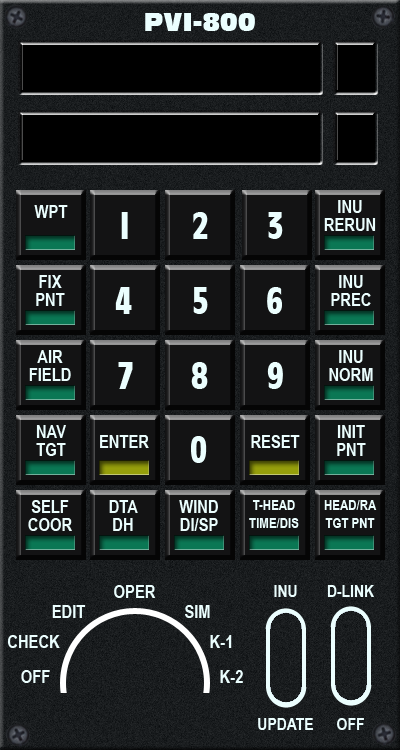
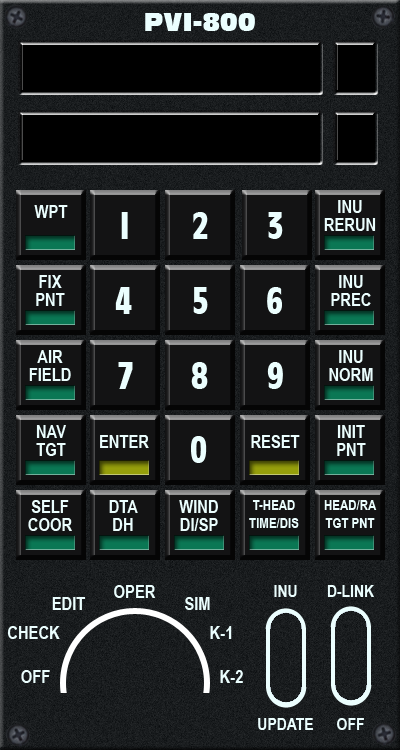
PVT selector

Changed region(s): [[0.0, 0.7973, 0.21, 0.8893], [0.45, 0.7973, 0.6, 0.8587]]

diff --git a/Ka50-Pit.html b/Ka50-Pit.html
@@ -396,8 +396,35 @@
 
 <!-- xxxxxxxxxxxxxxxxxxxxxxxxxxxxxxxxxxxxxxxxxxxxxxxxxxxxxxxxxxxxxxxxxxxxxxxxxxxxxxxxxxxxxxxxxxxxxxxxxxxxx -->
 
-
-
+<div id="Panel_DLINK_Select">
+	<img src="images/panel/Datalink-Select.png" width="400" height="200" usemap="#PVT800_P"> 
+	
+	<map name="PVT800_P">
+			<!-- Selecteur d'ID-->
+			<area shape="circle" coords="60,30,20" href="javascript:CmdDCSRaw('42501400')">
+			<area shape="circle" coords="100,40,20" href="javascript:CmdDCSRaw('42501401')">
+			<area shape="circle" coords="135,70,20" href="javascript:CmdDCSRaw('42501402')">
+			<area shape="circle" coords="145,120,20" href="javascript:CmdDCSRaw('42501403')">
+			
+			<!-- Selecteur DATA-->
+			<area shape="circle" coords="210,50,20" href="javascript:CmdDCSRaw('42501500')">
+			<area shape="circle" coords="280,30,20" href="javascript:CmdDCSRaw('42501501')">
+			<area shape="circle" coords="360,60,20" href="javascript:CmdDCSRaw('42501502')">
+			<area shape="circle" coords="370,120,20" href="javascript:CmdDCSRaw('42501503')">
+	</map> 
+	
+	
+	<!-- Molette du Selecteur du PVI -->
+	<SPAN style="position: absolute; left: 30px; top: 45px; width: 60px; height: 150px">
+	<img src="images/navigation/Selecteur_demi.gif" width="60" height="150" id="Selec_dlink_1">
+	</SPAN>
+	
+	<!-- Molette du Selecteur du PVI -->
+	<SPAN style="position: absolute; left: 250px; top: 45px; width: 60px; height: 150px">
+	<img src="images/navigation/Selecteur_demi.gif" width="60" height="150" id="Selec_dlink_2">
+	</SPAN>
+	
+	</div>		
 
 <!-- xxxxxxxxxxxxxxxxxxxxxxxxxxxxxxxxxxxxxxxxxxxxxxxxxxxxxxxxxxxxxxxxxxxxxxxxxxxxxxxxxxxxxxxxxxxxxxxxxxxxx -->
 
@@ -1207,16 +1234,11 @@
 
 <div id="Panel_Light">
 
-	<img src="images/light/Light_Panel.png" width="500" height="200" usemap="#Light_P">
+	<img src="images/light/Light_Panel.png" width="500" height="200">
 
-	<map name="Light_P">
-		<!-- Bouton Light off 
-		<area shape="rect" coords="0,110,45,150" href="javascript:CmdDCSRaw('14800200')">-->
-	</map> 
-	
-	<!-- Selecteur Eclairage Intérieur Dome -->
+		<!-- Selecteur Eclairage Intérieur Dome -->
 	<SPAN style="position: absolute; left: 27px; top: 70px; width: 40px; height: 100px">
-	<img src="images/switch/Switch-Metal-D4.png" width="40" height="100" id="E_Dome_L" usemap="#Dome_L"> </SPAN>
+	<img src="images/switch/Switch-Metal-D4.png" width="40" height="100" id="E_Dome_L" usemap="#Dome_L"> 
 	<map name="Dome_L">	
 	<area shape="rect" coords="0,0,40,49"  href="javascript:CmdDCSRaw('15100901')"> 
 	<area shape="rect" coords="0,50,40,100"  href="javascript:CmdDCSRaw('15100900')"> 
@@ -1225,7 +1247,7 @@
 	
 	<!-- Selecteur Eclairage Intérieur Panel -->
 	<SPAN style="position: absolute; left: 78px; top: 70px; width: 40px; height: 100px">
-	<img src="images/switch/Switch-Metal-D4.png" width="40" height="100" id="E_Panel_L" usemap="#Panel_L"> </SPAN>
+	<img src="images/switch/Switch-Metal-D4.png" width="40" height="100" id="E_Panel_L" usemap="#Panel_L"> 
 	<map name="Panel_L">	
 	<area shape="rect" coords="0,0,40,49"  href="javascript:CmdSiocDCS4('15100101','15100301','15100701','15100501')"> 
 	<area shape="rect" coords="0,50,40,100"  href="javascript:CmdSiocDCS4('15100100','15100300','15100700','15100500')"> 
@@ -1234,7 +1256,7 @@
 	
 	<!-- Selecteur Nav Light -->
 	<SPAN style="position: absolute; left: 160px; top: 70px; width: 40px; height: 100px">
-	<img src="images/switch/Switch-Metal-C4V.png" width="40" height="100" id="E_Nav_L" usemap="#Nav_L"> </SPAN>
+	<img src="images/switch/Switch-Metal-C4V.png" width="40" height="100" id="E_Nav_L" usemap="#Nav_L"> 
 	<map name="Nav_L">	
 	<area shape="rect" coords="0,0,40,32"  href="javascript:CmdDCSRaw('44500403')"> 
 	<area shape="rect" coords="0,33,40,66"  href="javascript:CmdDCSRaw('44500400')"> 
@@ -1244,7 +1266,7 @@
 	
 	<!-- Selecteur Formation Light -->
 	<SPAN style="position: absolute; left: 215px; top: 70px; width: 40px; height: 100px">
-	<img src="images/switch/Switch-Metal-C4V.png" width="40" height="100" id="E_Form_L" usemap="#Form_L"> </SPAN>
+	<img src="images/switch/Switch-Metal-C4V.png" width="40" height="100" id="E_Form_L" usemap="#Form_L"> 
 	<map name="Form_L">	
 	<area shape="rect" coords="0,0,40,32"  href="javascript:CmdDCSRaw('44500203')"> 
 	<area shape="rect" coords="0,33,40,66"  href="javascript:CmdDCSRaw('44500200')"> 
@@ -1254,7 +1276,7 @@
 	
 	<!-- Selecteur Blade Tip -->
 	<SPAN style="position: absolute; left: 290px; top: 70px; width: 40px; height: 100px">
-	<img src="images/switch/Switch-Metal-D4.png" width="40" height="100" id="E_Blade_L" usemap="#Blade_L"> </SPAN>
+	<img src="images/switch/Switch-Metal-D4.png" width="40" height="100" id="E_Blade_L" usemap="#Blade_L">
 	<map name="Blade_L">	
 	<area shape="rect" coords="0,0,40,49"  href="javascript:CmdDCSRaw('14500101')"> 
 	<area shape="rect" coords="0,50,40,100"  href="javascript:CmdDCSRaw('14500100')"> 
@@ -1263,7 +1285,7 @@
 	
 	<!-- Selecteur Beacon Light -->
 	<SPAN style="position: absolute; left: 340px; top: 70px; width: 40px; height: 100px">
-	<img src="images/switch/Switch-Metal-D4.png" width="40" height="100" id="E_Beacon_L" usemap="#Beacon_L"> </SPAN>
+	<img src="images/switch/Switch-Metal-D4.png" width="40" height="100" id="E_Beacon_L" usemap="#Beacon_L">
 	<map name="Beacon_L">	
 	<area shape="rect" coords="0,0,40,49"  href="javascript:CmdDCSRaw('14500301')"> 
 	<area shape="rect" coords="0,50,40,100"  href="javascript:CmdDCSRaw('14500300')"> 
@@ -1272,7 +1294,7 @@
 
 	<!-- Selecteur Landing Lights -->
 	<SPAN style="position: absolute; left: 420px; top: 70px; width: 40px; height: 100px">
-	<img src="images/switch/Switch-Metal-C4V.png" width="40" height="100" id="E_Landing_L" usemap="#Landing_L"> </SPAN>
+	<img src="images/switch/Switch-Metal-C4V.png" width="40" height="100" id="E_Landing_L" usemap="#Landing_L"> 
 	<map name="Landing_L">	
 	<area shape="rect" coords="0,0,40,32"  href="javascript:CmdSiocDCS3('14400101','14400200','0')"> 
 	<area shape="rect" coords="0,33,40,66"  href="javascript:CmdDCSRaw('14400100')"> 
@@ -1382,7 +1404,7 @@
 	
 	<!-- Selecteur Inu/Update -->
 	<SPAN style="position: absolute; left: 266px; top: 610px; width: 40px; height: 100px">
-	<img src="images/switch/Switch-Metal-D4.png" width="40" height="100" id="SW_pvi_inu" usemap="#pvi_inu"> </SPAN>
+	<img src="images/switch/Switch-Metal-D4.png" width="40" height="100" id="SW_pvi_inu" usemap="#pvi_inu"> 
 	<map name="pvi_inu">	
 	<area shape="rect" coords="0,0,40,49"  href="javascript:CmdDCSRaw('12002801')"> 
 	<area shape="rect" coords="0,50,40,100"  href="javascript:CmdDCSRaw('12002800')"> 
@@ -1391,7 +1413,7 @@
 	
 	<!-- Selecteur D-Link On/Off Update -->
 	<SPAN style="position: absolute; left: 332px; top: 610px; width: 40px; height: 100px">
-	<img src="images/switch/Switch-Metal-D4.png" width="40" height="100" id="SW_pvi_dlink" usemap="#pvi_dlink"> </SPAN>
+	<img src="images/switch/Switch-Metal-D4.png" width="40" height="100" id="SW_pvi_dlink" usemap="#pvi_dlink"> 
 	<map name="pvi_dlink">	
 	<area shape="rect" coords="0,0,40,49"  href="javascript:CmdDCSRaw('12501601')"> 
 	<area shape="rect" coords="0,50,40,100"  href="javascript:CmdDCSRaw('12501600')"> 
@@ -1456,14 +1478,13 @@
 	<SPAN style="position: absolute; left: 337px; top: 36px; width: 40px; height: 50px ; color:red;  text-align:center; font-size:340%" id="PVI_T3"> </SPAN>
 	<SPAN style="position: absolute; left: 337px; top: 106px; width: 40px; height: 50px ; color:red;  text-align:center; font-size:340%" id="PVI_T4"> </SPAN>
 	
+	</div>		
 	
-	
-	
-	
-	
-	
-</div>		
+	<!-- xxxxxxxxxxxxxxxxxxxxxxxxxxxxxxxxxxxxxxxxxxxxxxxxxxxxxxxxxxxxxxxxxxxxxxxxxxxxxxxxxxxxxxxxxxxxxxxxxxxxx -->
 
+	
+	
+	
 
 
 </body>

diff --git a/js/pit_init.js b/js/pit_init.js
@@ -9,7 +9,7 @@ function panel_On_init(){
 
 var Panel_On = { Init:0, Breakers:0, Light:1, Electric_DC:1, Electric_AC:0, APU:0, Oil:1, Start:1, Rotor:1, Analog_1:0, Analog_2:0, 
 	ARK_9:0, ARK_UD:0, Doppler:0, Radio_360:1, Fuel:0, Vierge:0, Navigation:0, Target:0, Weapon:1, UV26:1,
-	Pilototo:1,Datalink:1, Abris:1, PVI800:1, Doc:0}
+	Pilototo:1, Datalink:1, Abris:1, PVI800:1, PVT800:1, Doc:0}
 
 return (Panel_On);
 
@@ -36,7 +36,7 @@ function paneldata_init(){
 		ARKUD:55500555,	ARK9_SW:55555, ARK9_F: 51506290, ARK9_Data:50005000, ARK9_T_Main:150, ARK9_T_Stby:150,
 		Doppler_d1:50005000, Doppler_d2:50005000, Doppler_f:555,
 		D15_drift:50005000, D15_drift_V:55, Sling_2D:50005000, Sling_3D:50005000, 
-		DLinkL1:0, DLinkL2:0, DLinkL3:0, Tgt_Btn:5555, Wpn_Ka:55555555, Wpn_Lamp:55, Wpn_Flag:55555,Wpn_Ammo:50005000,Wpn_SW_1:555555,
+		DLinkL1:5555, DLinkL2:55555, DLinkL3:555555, Tgt_Btn:5555, Wpn_Ka:55555555, Wpn_Lamp:55, Wpn_Flag:55555,Wpn_Ammo:50005000,Wpn_SW_1:555555,
 		UV26_Data:50005000, UV26_Flag:5555, Abris1:50005000, Abris2:50005000, Abris3:50005000, 
 		Pvi800_1:0 , Pvi800_2:0, Pvi800_3:50005000, Pvi800_4:55555555 , Pvi800_5:5555555 , Pvi800_6:550,
 		Collectif:0,

diff --git a/js/panel_datalink.js b/js/panel_datalink.js
@@ -88,4 +88,28 @@ function panel_datalink_update(KaTZPit_data){
 		
 }
 
+function panel_datalink_pvt800(KaTZPit_data){
+	console.log(KaTZPit_data["DLinkL3"])
+	console.log(dataread_posit(KaTZPit_data["DLinkL3"],5))
+	// Selecteurs Rotatif Datalink (ID et Data)
+	switch_PVT(dataread_posit(KaTZPit_data["DLinkL3"],6),dataread_posit(KaTZPit_data["DLinkL3"],5))
+}
+
+function switch_PVT(id,data){
+	var i_origine = 0
+	var i_gain = 30
 	
+	var d_origine = -45
+	var d_gain = 45
+	
+	$("#Selec_dlink_1").css({
+		'-moz-transform':'rotate('+(i_origine+i_gain*id)+'deg)',
+		'-webkit-transform':'rotate('+(i_origine+i_gain*id)+'deg)',
+		'-ms-transform':'rotate('+(i_origine+i_gain*id)+'deg)',
+	})
+	$("#Selec_dlink_2").css({
+		'-moz-transform':'rotate('+(d_origine+d_gain*data)+'deg)',
+		'-webkit-transform':'rotate('+(d_origine+d_gain*data)+'deg)',
+		'-ms-transform':'rotate('+(d_origine+d_gain*data)+'deg)',
+	})
+}

diff --git a/js/pit.js b/js/pit.js
@@ -69,8 +69,6 @@ function pit_main(){
 	
 	if (Panel_On["Oil"]==1){panel_oil_update(KaTZPit_data)}
 	
-	if (Panel_On["Datalink"]==1){panel_datalink_update(KaTZPit_data)}
-	
 	if (Panel_On["Pilototo"]==1){panel_pilototo_update(KaTZPit_data)}
 	
 	if (Panel_On["Radio_360"]==1){panel_radio_update(KaTZPit_data)}
@@ -86,6 +84,10 @@ function pit_main(){
 	if (Panel_On["UV26"]==1){panel_uv26_update(KaTZPit_data)}	
 	
 	if (Panel_On["PVI800"]==1){panel_pvi_update(KaTZPit_data)}	
+	
+	if (Panel_On["Datalink"]==1){panel_datalink_update(KaTZPit_data)}
+	
+	if (Panel_On["PVT800"]==1){panel_datalink_pvt800(KaTZPit_data)}
 	
 	CmdSend()
 }

diff --git a/css/KA50-Pit.css b/css/KA50-Pit.css
@@ -225,8 +225,8 @@ p {
 
 #Panel_Pilototo {
 	position: absolute;
-	top: 1000px;
-	left: 1150px;
+	top: 10px;
+	left: 2550px;
 	/* Dimension 775 x 10			              */
 	font-family:arial, sans-serif;
 	font-size:100%;
@@ -292,6 +292,15 @@ p {
 #Panel_PVI800 {
 	position: absolute;
 	top: 240px;
+	left: 1150px;
+	/* Dimension 500 x 180			              */
+	font-family:arial, sans-serif;
+		
+}
+
+#Panel_DLINK_Select {
+	position: absolute;
+	top: 1000px;
 	left: 1150px;
 	/* Dimension 500 x 180			              */
 	font-family:arial, sans-serif;
